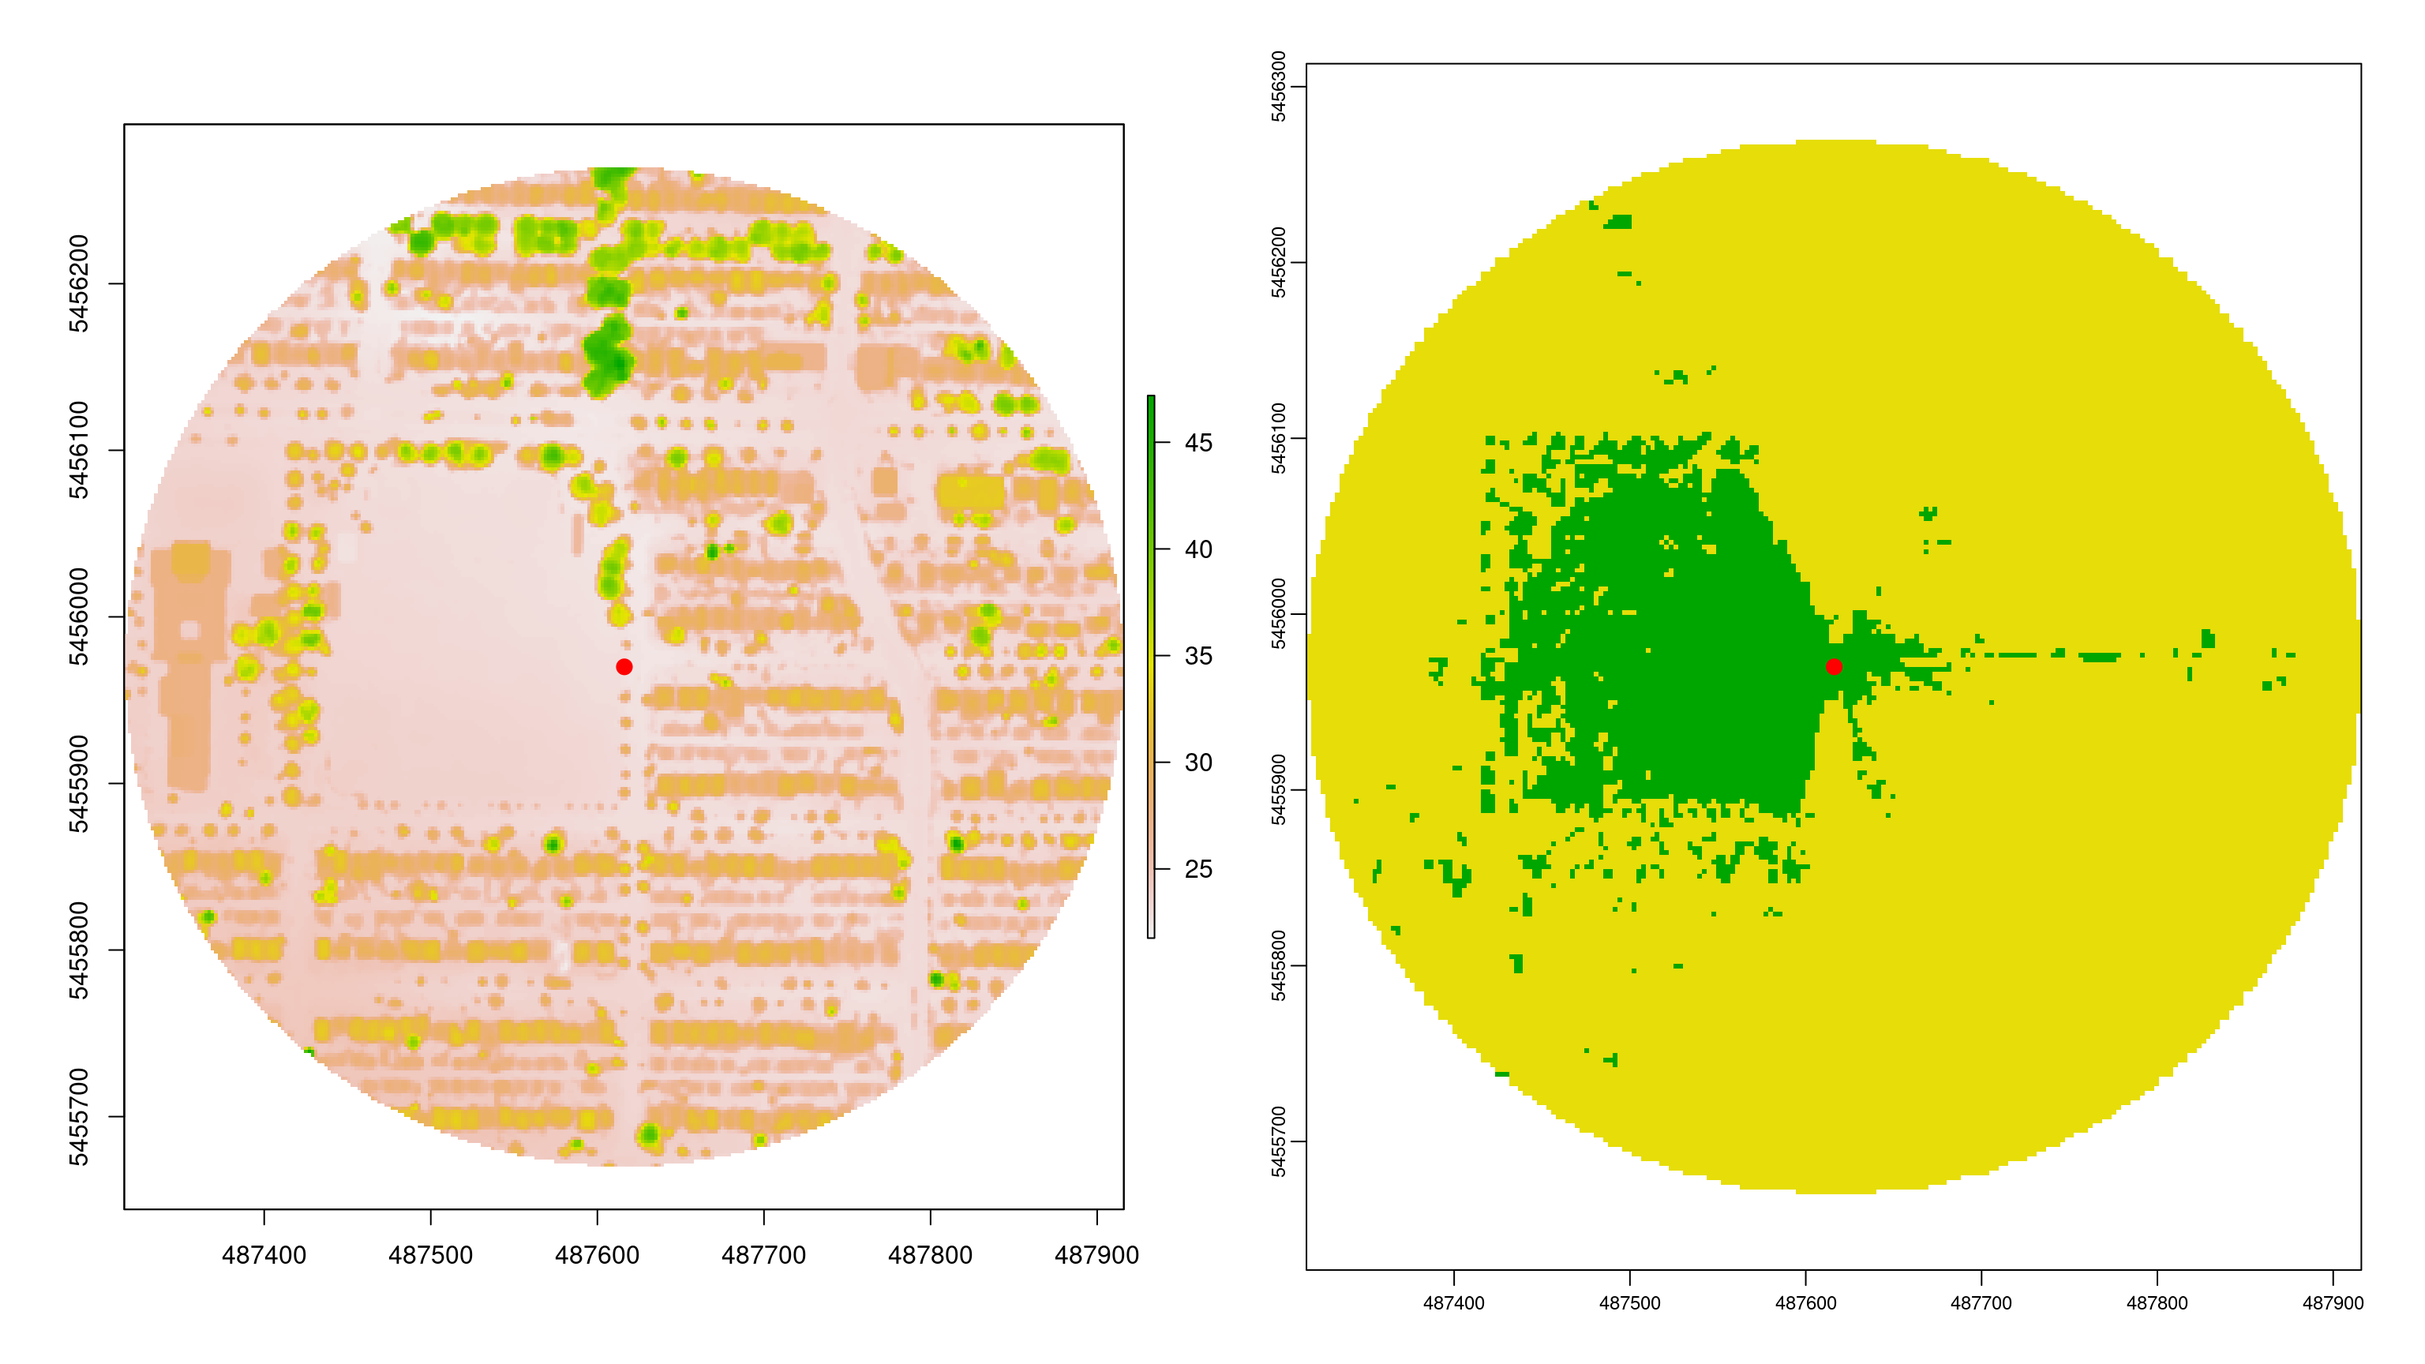
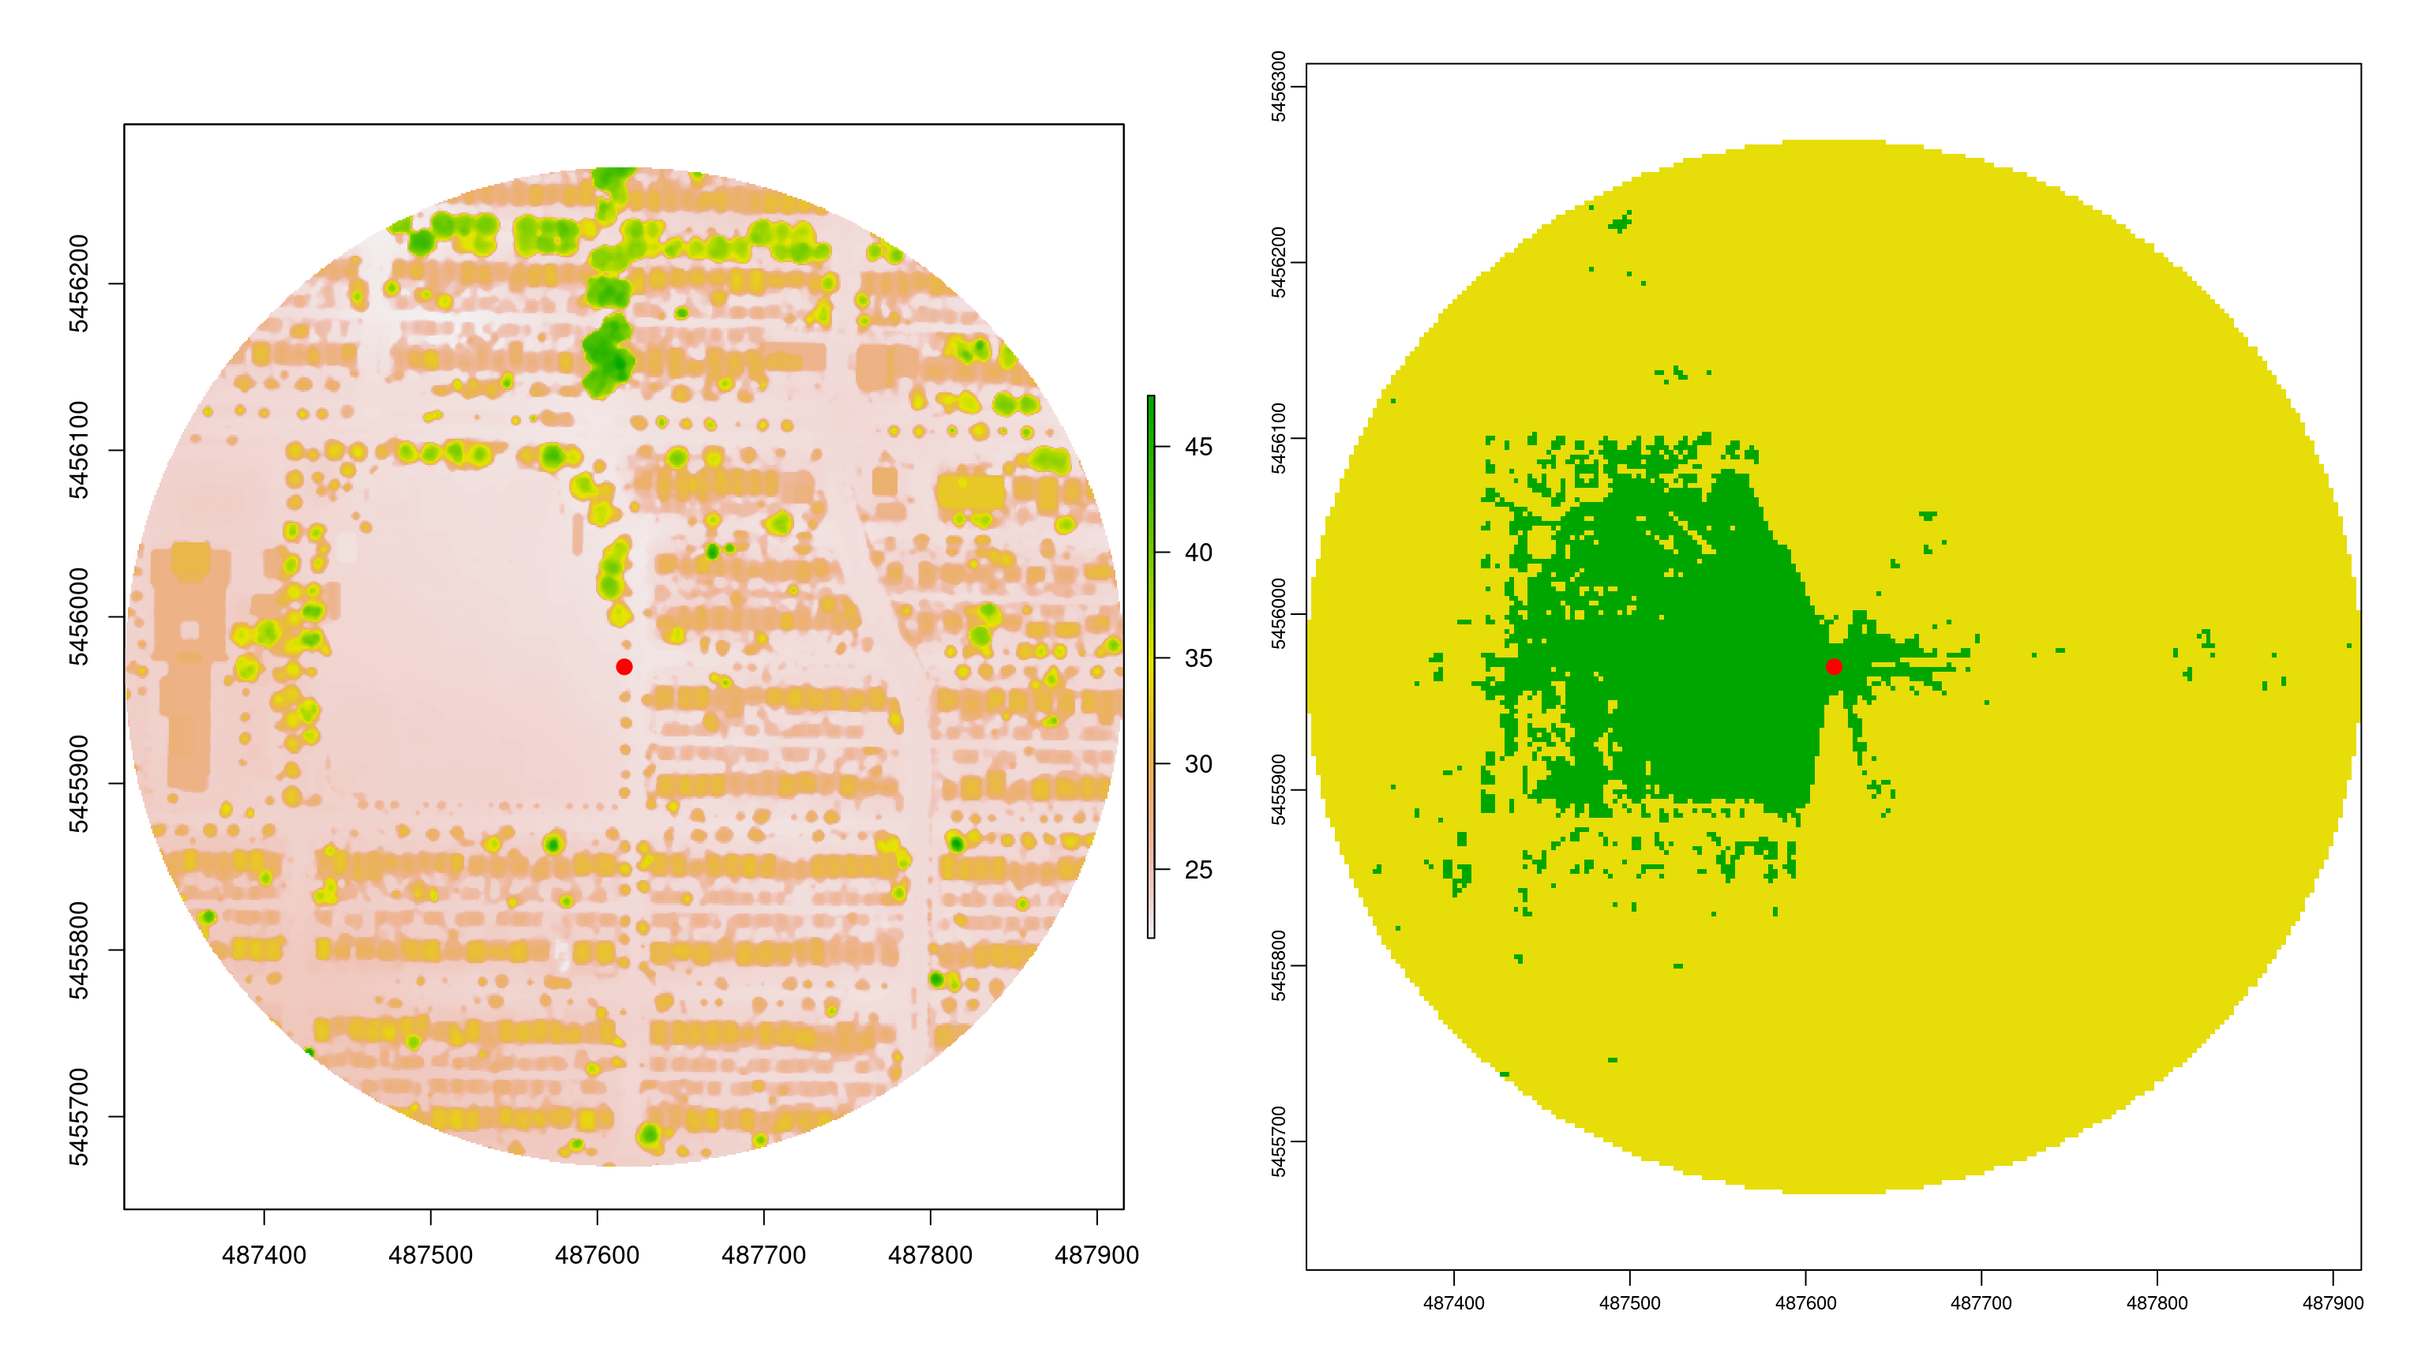
GVI use Rcpp

diff --git a/content/post/2021-03-17-greenness-visibility-exposure/index.en.html b/content/post/2021-03-17-greenness-visibility-exposure/index.en.html
@@ -175,7 +175,7 @@ elev_matrix %&gt;%
   add_shadow(ambmat, max_darken = 0.1) %&gt;%
   plot_map()</code></pre>
 <p><img src="{{< blogdown/postref >}}index.en_files/figure-html/unnamed-chunk-10-1.png" width="672" /></p>
-<p>There are some missing values in the raster and at the right edge of the map we can see a “wall.” This is due to the fact, that power lines are being measured by LiDAR, too. Therefore we need to post-process the DSM to smooth the raster and fill empty pixels. We will apply a moving window approach. However, the DSM is too large, to apply <code>focal</code> on the whole raster at once. Therefore we will use the <code>lidar_tiles</code> shapefile from above, to apply smoothing and NA-value filling on subsets of the raster.</p>
+<p>There are some missing values in the raster and at the right edge of the map we can see a “wall.” This is due to the fact, that power lines are being measured by LiDAR, too. Therefore we need to post-process the DSM to smooth the raster and fill empty pixels. We will apply a moving window approach. However, the DSM is too large, to apply <code>focal</code> on the whole raster at once. Therefore we will use the <code>lidar_tiles</code> shapefile from above, to apply smoothing and NA-value filling on subsets of the raster. To avoid edge effects, we first crop the DSM to a buffered LiDAR tile, apply the <code>focal</code> and finally crop the processed DSM to the unbuffered LiDAR tile.</p>
 <pre class="r"><code># Check if processing directory exists.
 delete_folder &lt;- FALSE
 proc_dir &lt;- file.path(workdir, &quot;DSM/Proc&quot;)
@@ -187,9 +187,15 @@ if(!dir.exists(proc_dir)) {
 
 pb = txtProgressBar(min = 0, max = nrow(lidar_tiles), initial = 0, style = 3)
 for (i in 1:nrow(lidar_tiles)) {
-  terra::crop(dsm, lidar_tiles[i,]) %&gt;% 
-    terra::focal(3, fun = median, na.only = T) %&gt;% # fill NA values
-    terra::focal(9, fun = median, na.rm = TRUE) %&gt;% # smoothing
+  dsm %&gt;% 
+    # Crop to buffered tile
+    terra::crop(sf::st_buffer(lidar_tiles[i,], 10)) %&gt;% 
+    # Fill NA values
+    terra::focal(3, fun = median, na.only = T) %&gt;%
+    # Smoothing
+    terra::focal(9, fun = median, na.rm = TRUE) %&gt;%
+    # Crop to unbuffered tile
+    terra::crop(lidar_tiles[i,]) %&gt;% 
     terra::writeRaster(filename = file.path(proc_dir, 
                                             paste0(&quot;dsm_tile_&quot;, i, &quot;.tif&quot;)),
                        format=&quot;GTIFF&quot;)
@@ -265,7 +271,32 @@ elev_matrix %&gt;%
 </div>
 <div id="section-line-of-sight" class="section level3">
 <h3>Line of Sight</h3>
-<p>The observer at point A can only see point B, if no object in between point A and B blocks the view to point B. The <code>lineOfSight</code> function evaluates visibility along all cells from A to B, by calculating tangent <em>⍺</em> from <em>𝚫height</em> (opposite side) and <em>distance traveled</em> (adjacent side) and comparing it for every step. To see a point, its tangent <em>⍺</em> must be greater than the biggest tangent <em>⍺</em> so far. The function returns a <code>data.table</code> containing the cell number and corresponding visibility of all points from A to B. Visible cells have a value of 1 and non visible cells -1.</p>
+<p>The observer at point A can only see point B, if no object in between point A and B blocks the view to point B. The <code>lineOfSight</code> function evaluates visibility along all cells from A to B, by calculating tangent <em>⍺</em> from <em>𝚫height</em> (opposite side) and <em>distance traveled</em> (adjacent side) and comparing it for every step. To see a point, its tangent <em>⍺</em> must be greater than the biggest tangent <em>⍺</em> so far.</p>
+<p>In R we would write a for loop and compare the tangent of the current point to the maximum tangent so far. Therefore this step can’t be vectorised, because the subsequent iterations depend on previous ones. Native R code is quiet “slow” for these kind of tasks. Therefore I have implemented this step in C++ using the <a href="http://www.rcpp.org/">Rcpp</a> package.</p>
+<pre class="cpp"><code>#include &lt;Rcpp.h&gt;
+using namespace Rcpp;
+
+// [[Rcpp::export]]
+NumericVector isVisibleC(NumericVector x) {
+  int n = x.size();
+  NumericVector out(n);
+  out[0] = 1;
+  
+  double max_tangent = -9999;
+  
+  for(int i = 1; i &lt; n; ++i) {
+    double this_tangent = x[i];
+    
+    if (this_tangent &gt; max_tangent) {
+      max_tangent = this_tangent;
+      out[i] = 1;
+    } else {
+      out[i] = -1;
+    }
+  }
+  return out;
+}</code></pre>
+<p>The <code>lineOfSight</code> function returns a <code>data.table</code> containing the cell number and corresponding visibility of all points from A to B. Visible cells have a value of 1 and non visible cells -1.</p>
 <pre class="r"><code>lineOfSight &lt;- function(xy1, x0, y0, height0, resolution, dsm_data) {
   # Get start XY from input
   x1 &lt;- xy1[1]
@@ -274,35 +305,23 @@ elev_matrix %&gt;%
   # Get the pixels in the line
   pixels &lt;- rasterprofile(r = dsm_data, x0 = x0, y0 = y0, x1 = x1, y1 = y1, 
                           resolution = resolution)
+  
   # Distance traveled so far
   distance_traveled = sqrt((y0 - pixels[,2])^2 + (x0 - pixels[,1])^2)
     
   # Calculate tangent from delta height (opposite side) and distance traveled (adjacent side)
-  pixels &lt;- cbind(pixels, (pixels[,3] - height0) / (distance_traveled * resolution))
+  tangents &lt;- (pixels[,3] - height0) / (distance_traveled * resolution)
   
   # Is visible? Current tangent must be greater than max. tangent
-  is_visible &lt;- function(x) {
-    if (x[5] &gt; max_tangent) {
-        max_tangent &lt;&lt;- x[5]
-        x[4]
-    }
-  }
-  max_tangent &lt;- -Inf
-  visible_pixels &lt;- apply(pixels, 1, is_visible) %&gt;% 
-    unlist() %&gt;% 
-    c(pixels[1,4], .) # the starting point is always visible
-  
-  # Assign 1 for visible and -1 for no-visible cells
-  pixels[pixels[,4] %in% visible_pixels, 5] &lt;- 1
-  pixels[pixels[,5] != 1, 5] &lt;- -1
+  visibility &lt;- isVisibleC(tangents)
   
   # Return cellnumber and visibility-value
-  data.table::as.data.table(matrix(pixels[, 4:5], ncol = 2))
+  data.table::as.data.table(cbind(pixels[,4], visibility))
 }</code></pre>
 </div>
 <div id="section-viewshed" class="section level3">
 <h3>Viewshed</h3>
-<p>Finally, the visibility of all points withing a certain buffer around point A can be calculated, using the <code>lineOfSight</code> function. The <code>viewshed</code> function returns a circular raster (start point + max_distance-buffer) where values of 1 indicate visible points and -1 non-visible points.</p>
+<p>Finally, the visibility of all points withing a certain buffer around point A can be calculated, using the <code>lineOfSight</code> function. The <code>viewshed</code> function returns a circular raster (start point + max_distance-buffer) where values of 1 indicate visible points and -1 non-visible points. To calculate visibility for all points in the raster, we only need to calculate the line of sight from the center to all boundary points of the circle and store the information of each point in between.</p>
 <pre class="r"><code>viewshed &lt;- function(sf_start, max_distance, dsm_data, dtm_data, resolution, 
                      observer_height, cores = 1, plot = FALSE) {
   
@@ -403,46 +422,46 @@ sf_start &lt;- sfheaders::sf_point(c(487616.2, 5455970)) %&gt;%
 <div id="section-resolution-0.5m" class="section level4">
 <h4>1. Resolution = 0.5m</h4>
 <p>Output-Raster-Cells: 1 440 000<br />
-Runtime: 1.5 seconds (cores=1: 4.8 seconds)<br />
+Runtime: 0.85 seconds (cores=1: 1.80 seconds)<br />
 Total visibility: 11.9%</p>
 <pre class="r"><code>viewshed_1 &lt;- viewshed(sf_start = sf_start, max_distance = 300,
                        dsm_data = filled_dsm, dtm_data = DTM, 
                        resolution = 0.5, observer_height = 1.8, 
                        cores = 10, plot = TRUE)</code></pre>
-<p><img src="{{< blogdown/postref >}}index.en_files/figure-html/unnamed-chunk-19-1.png" width="1536" /></p>
+<p><img src="{{< blogdown/postref >}}index.en_files/figure-html/unnamed-chunk-20-1.png" width="1536" /></p>
 </div>
 <div id="section-resolution-1m" class="section level4">
 <h4>2. Resolution = 1m</h4>
 <p>Output-Raster-Cells: 360 000<br />
-Runtime: 0.9 seconds (cores=1: 1.6 seconds)<br />
+Runtime: 0.45 seconds (cores=1: 0.75 seconds)<br />
 Total visibility: 12.4%</p>
 <pre class="r"><code>viewshed_2 &lt;- viewshed(sf_start = sf_start, max_distance = 300,
                        dsm_data = filled_dsm, dtm_data = DTM, 
                        resolution = 1, observer_height = 1.8, 
                        cores = 10, plot = TRUE)</code></pre>
-<p><img src="{{< blogdown/postref >}}index.en_files/figure-html/unnamed-chunk-20-1.png" width="1536" /></p>
+<p><img src="{{< blogdown/postref >}}index.en_files/figure-html/unnamed-chunk-21-1.png" width="1536" /></p>
 </div>
 <div id="section-resolution-2m" class="section level4">
 <h4>3. Resolution = 2m</h4>
 <p>Output-Raster-Cells: 90 000<br />
-Runtime: 0.5 seconds (cores=1: ~0.6 seconds)<br />
+Runtime: 0.35 seconds (cores=1: 0.40 seconds)<br />
 Total visibility: 12.8%</p>
 <pre class="r"><code>viewshed_3 &lt;- viewshed(sf_start = sf_start, max_distance = 300,
                        dsm_data = filled_dsm, dtm_data = DTM, 
                        resolution = 2, observer_height = 1.8, 
                        cores = 5, plot = TRUE)</code></pre>
-<p><img src="{{< blogdown/postref >}}index.en_files/figure-html/unnamed-chunk-21-1.png" width="1536" /></p>
+<p><img src="{{< blogdown/postref >}}index.en_files/figure-html/unnamed-chunk-22-1.png" width="1536" /></p>
 </div>
 <div id="section-resolution-5m" class="section level4">
 <h4>4. Resolution = 5m</h4>
 <p>Output-Raster-Cells: 14 400<br />
-Runtime: ~0.35 seconds (cores=1: ~0.25 seconds)<br />
+Runtime: 0.22 seconds (cores=1: 0.18 seconds)<br />
 Total visibility: 14.6%</p>
 <pre class="r"><code>viewshed_4 &lt;- viewshed(sf_start = sf_start, max_distance = 300,
                        dsm_data = filled_dsm, dtm_data = DTM, 
                        resolution = 5, observer_height = 1.8, 
                        cores = 2, plot = TRUE)</code></pre>
-<p><img src="{{< blogdown/postref >}}index.en_files/figure-html/unnamed-chunk-22-1.png" width="1536" /></p>
+<p><img src="{{< blogdown/postref >}}index.en_files/figure-html/unnamed-chunk-23-1.png" width="1536" /></p>
 </div>
 </div>
 </div>
@@ -712,7 +731,7 @@ greenspace %&gt;%
 
 points(st_coordinates(sf_start)[1], st_coordinates(sf_start)[2], 
        col = &quot;blue&quot;, cex = 3, pch = 20)</code></pre>
-<p><img src="{{< blogdown/postref >}}index.en_files/figure-html/unnamed-chunk-24-1.png" width="1536" /></p>
+<p><img src="{{< blogdown/postref >}}index.en_files/figure-html/unnamed-chunk-25-1.png" width="1536" /></p>
 </div>
 <div id="section-green-visibility-index" class="section level3">
 <h3>Green Visibility Index</h3>
@@ -743,7 +762,7 @@ aoi.isodistances &lt;- DRIGLUCoSE::isodistances(x = sf_start %&gt;% mutate(tag =
                                              speed = 75, 
                                              isochrones_seq = seq(1, 10, 1))</code></pre>
 <p>In the figure below the isodistances are being illustrated. The red point represents the starting point. We will calculate visible greenspace proportion every 10m.</p>
-<p><img src="{{< blogdown/postref >}}index.en_files/figure-html/unnamed-chunk-27-1.svg" width="960" /></p>
+<p><img src="{{< blogdown/postref >}}index.en_files/figure-html/unnamed-chunk-28-1.svg" width="960" /></p>
 <p>To evaluate network visibility, we will write a new function <code>networkVisibleGreenspace</code> to combine all previous steps to a single point along the network.</p>
 <pre class="r"><code>networkVisibleGreenspace &lt;- function(x, isodistance, greenspace,
                                      dsm_data, dtm_data, 
@@ -788,13 +807,13 @@ output &lt;- all_points %&gt;%
 <div id="section-results" class="section level3">
 <h3>Results</h3>
 <p>The results of the <code>networkVisibilityGreenspace</code> is illustrated in the figure below.</p>
-<p><img src="{{< blogdown/postref >}}index.en_files/figure-html/unnamed-chunk-30-1.svg" width="960" /></p>
+<p><img src="{{< blogdown/postref >}}index.en_files/figure-html/unnamed-chunk-31-1.svg" width="960" /></p>
 <p>To evaluate the mean GVI for the observer in the center, we need to summarize all measurements from the previous steps. I simply take the mean of all values, but one could also apply a linear or logistic weights function, such that the influence of a variable decreases with increasing distance, as demonstrated in our recent publication.</p>
 <pre class="r"><code>round(mean(output$GVI), 2)</code></pre>
 <pre><code>## [1] 0.5</code></pre>
 <p>A mean value of 0.5 indicates, that 50% of the visible area along the network is vegetated.</p>
 <p>One big limitation of the viewshed algorithm is, that it fails to calculate eye-level visibility if the observer is underneath a tree. This is because we use a LiDAR derived DSM and calculate visibility based on the height of pixels along the lines of sight.</p>
-<p><img src="{{< blogdown/postref >}}index.en_files/figure-html/unnamed-chunk-32-1.svg" width="480" /></p>
+<p><img src="{{< blogdown/postref >}}index.en_files/figure-html/unnamed-chunk-33-1.svg" width="480" /></p>
 <p>The histogram above shows, that there are a lot of points with GVI = 1. I have plotted the DSM and the GVI points along the route network in QGIS.<img src="GVI_bad.png" style="width:7.13in" /></p>
 <p>The dark-green points are located underneath trees. Therefore, the viewshed algorithm can’t “see” beyond those trees and returns only one single visible cell, which is green. The proportion of green pixels to all visible pixels is therefore 1.</p>
 <p>As already mentioned, applying a distance function might simulate the potential activity space better, since a person will most likely use the road/path in front of his/her place of residence more often than the road 10 minutes away. I will talk about this issue in a different post and provide a solution using the <a href="https://cran.r-project.org/web/packages/mosaic/index.html">mosaic</a> R package.</p>
